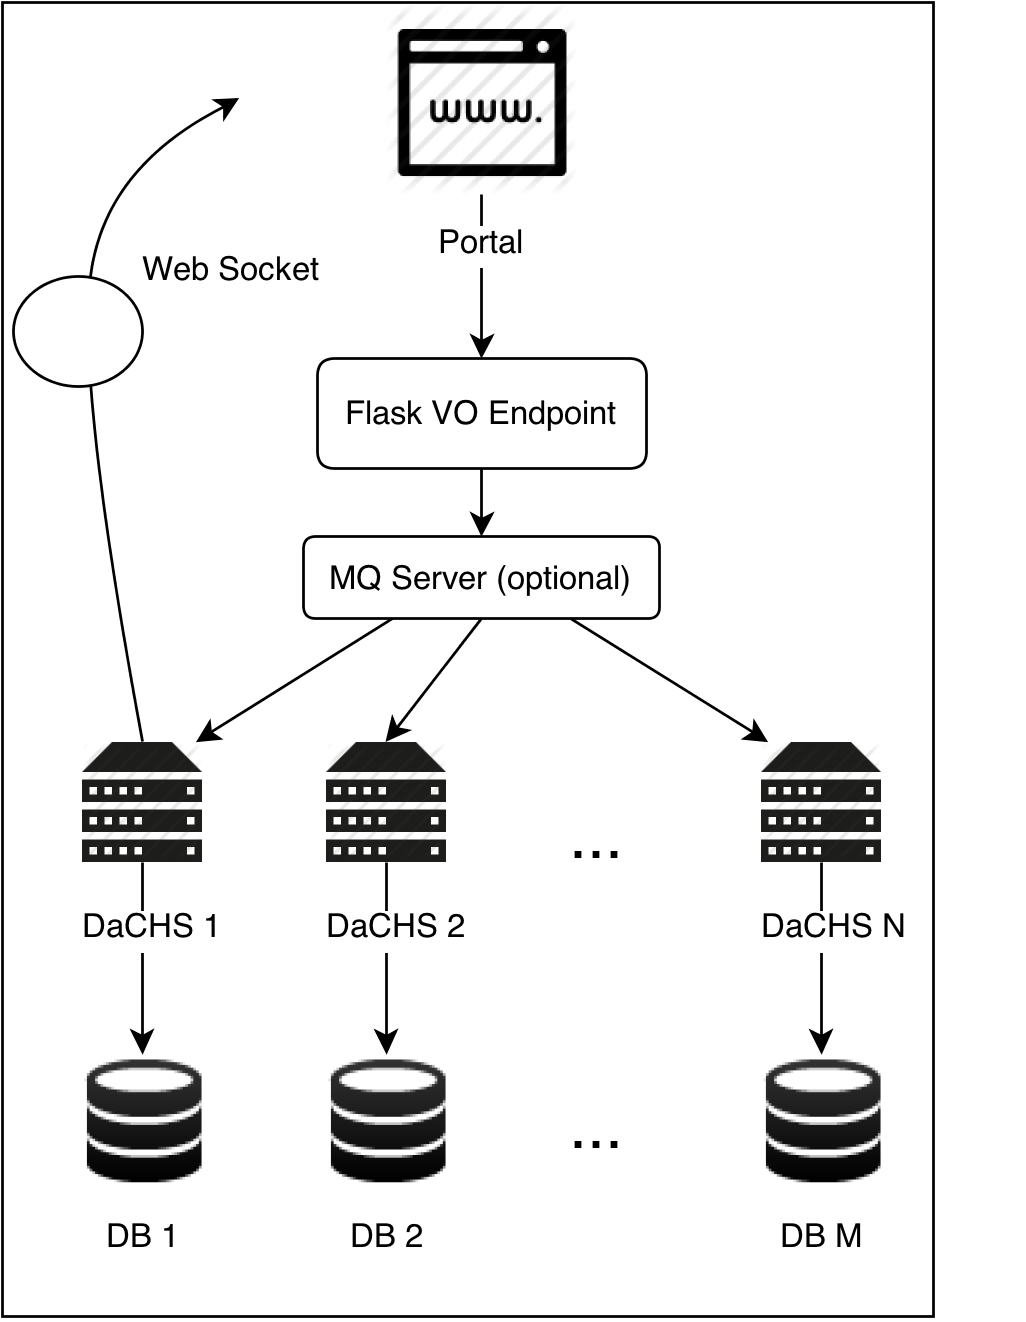
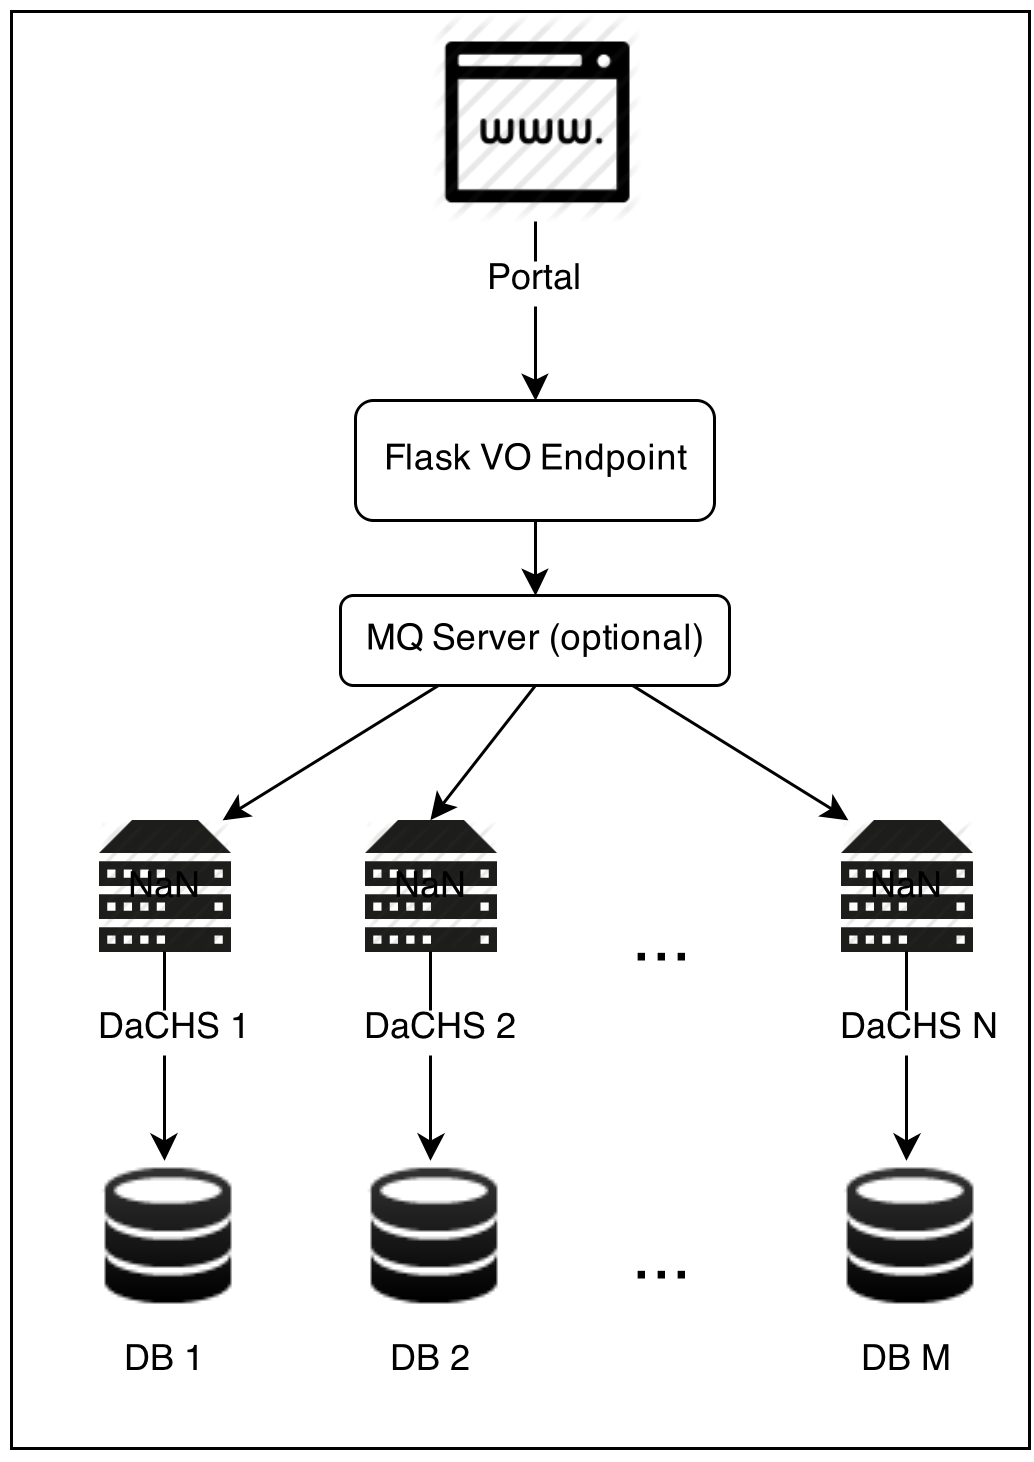
version 1.1

diff --git a/include/casos_de_uso.tex b/include/casos_de_uso.tex
@@ -1,4 +1,32 @@
 \section{Casos de Uso ChiVO}
+\noindent En la captura de requerimientos y casos de uso participaron los siguientes
+astrónomos:
+\begin{itemize}
+	\item Diego Mardones, Universidad de Chile.
+	\item Lars Nyman, Atacama Large Milimiter/submilimiter Array.
+	\item Neil Nagar, Universidad de Concepción.
+	\item Nelson Padilla, Pontificie Universidad Católica. 
+	\item Juan de Santander, Universidad de Granda, España.
+	\item Amelia Bayo, European Souther Observatory.
+\end{itemize}
+
+\noindent El informe de requerimientos (Hito Anterior) se puede encontrar en
+\cite{hrequerimientos}.
+
+\noindent Para abordar de mejor forma los casos de uso, se mencionarán algunos
+conceptos relevantes:
+\begin{itemize}
+	\item Los datos astronómicos en sus diferentes formatos se dividen en:
+Metadata y Binarios. La metadata son datos que describen los datos de la
+observación, y los binarios son los datos obtenidos de la observación.
+	\item En la primera etapa el proyecto trabajará con archivos FITS.
+	\item Las búsquedas en el sistema se realizan sobre la metadata. El
+resultado de una búsqueda es un set de datos candidatos que coinciden con los
+parámetros fijados en la búsqueda.
+	\item La interacción final con el sistema es cuando el usuario decide qué
+datos necesita, los selecciona y los descarga de forma local.
+\end{itemize}
+
 \subsection{Casos de Uso Generales}
 Los siguientes casos de usos involucran de manera general a varios
 requerimientos, por lo que se presentan en una categoría especial. 

diff --git a/include/arquitectura.tex b/include/arquitectura.tex
@@ -90,13 +90,9 @@ eficiencia, pero además se genera mayor necesidad de recursos computacionales.
 	\item El punto anterior expone una necesidad opcional de tener una cola
 opcional de tareas que sea manejado por algún servidor de mensajería (MQ
 Server).
-	\item Eficiencia de descarga: Si el endpoint ejecuta la consulta que recibe
-del portal web (HTTP) hacia el servidor DaCHS, entonces deberá descargar el
-stream de datos que entrega este servidor (VOTable), y cuando quiera enviarlo
-al usuario mediante el portal web, deberá realizarse otra descarga nuevamente,
-por lo que el proceso no es eficiente. Para solucionar este aspecto, en el
-prototipo se implementó un canal de comunicación entre en servidor DaCHS y el
-portal web mediante un WebSocket creado por el endpoint. 
+	\item Como el endpoint recibirá consultas para buscar datos y además
+recibirá peticiones de descarga, se propone implementar un caché para alivianar
+la carga de DaCHS y así aumentar la eficiencia del sistema.
 \end{itemize}
 
 \vspace{1.0cm}
@@ -106,7 +102,3 @@ portal web mediante un WebSocket creado por el endpoint.
         \caption{Arquitectura ChiVO - Interacción del servicio.}
     \end{center}
 \end{figure}
-
-Estos aspectos fueron considerados e implementados en el prototipo funcional,
-el cual sirvió para validar las tecnologías y patrones con el cual se
-desarrolló.

diff --git a/include/resumen.tex b/include/resumen.tex
@@ -4,6 +4,12 @@ En el marco de la creación de una ``plataforma
 astroinformática para la administración y análisis inteligente de datos a gran
 escala``, se dio comienzo al desarrollo del Chilean Virtual Observatory (ChiVO).
 
+ChiVO, en primera instancia será un portal web que le permitirá a los usuarios
+acceder a datos públicos del observatorio ALMA mediante algunos protocolos de
+acceso. Durante el proyecto se buscará integrar las herramientas de
+procesamiento de datos astronómicos de gran escala a desarrollar por los
+investigadores y equipo de trabajo del proyecto.
+
 El desarrollo de software a medida consiste en la creación y fabricación de
 sistemas informáticos que satisfacen necesidades específicas de un área. Es por
 esto, que la creación de ChiVO se ha enfocado en satisfacer las necesidades que

diff --git a/arquitectura.tex b/arquitectura.tex
@@ -29,9 +29,8 @@
 
 \title{
 \center{\emph{Desarrollo de una plataforma astroinformática para la administración y análisis inteligente de datos a gran escala} \\}
-\center{\textbf{Arquitectura de software} \\}
-\author{
-        Mauricio Solar, Marcelo Mendoza, Jonathan Antognini.}
+\center{\textbf{Arquitectura de software \\ Version 1.1 - 14 Noviembre} \\}
+\author{Mauricio Solar, Marcelo Mendoza, Jonathan Antognini.}
 \date{Valparaíso, \today}
 }
 
